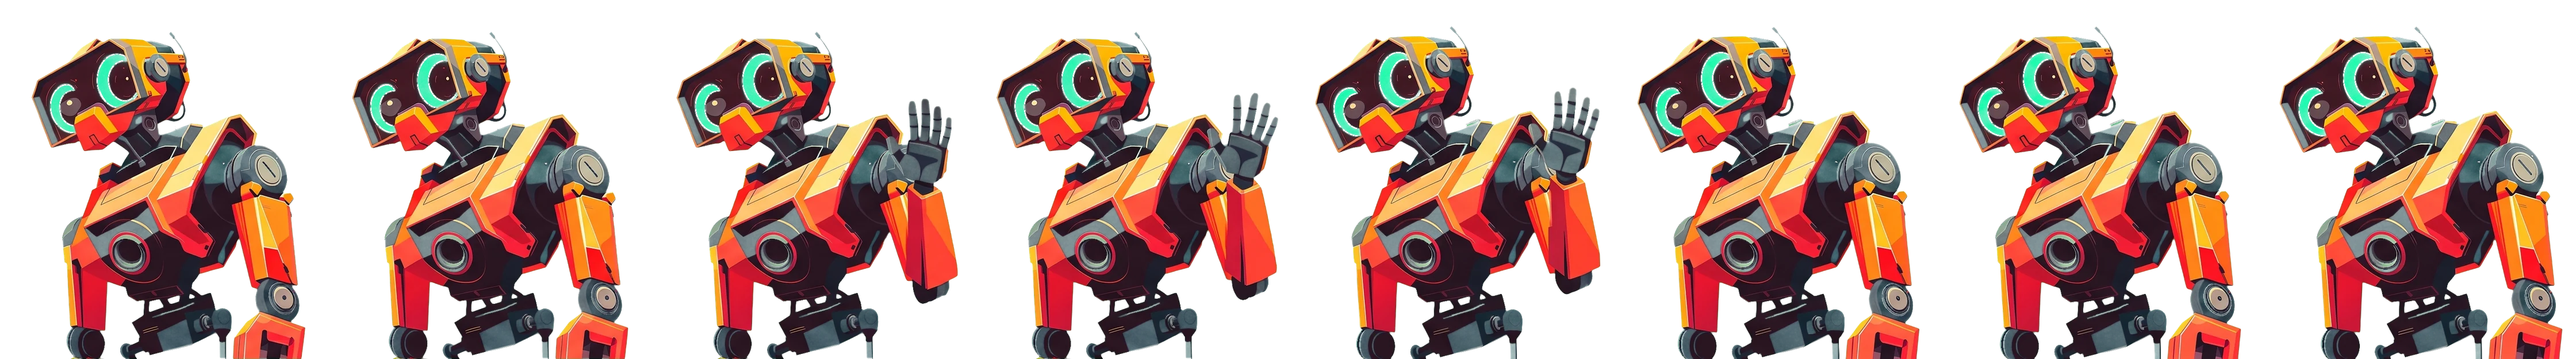
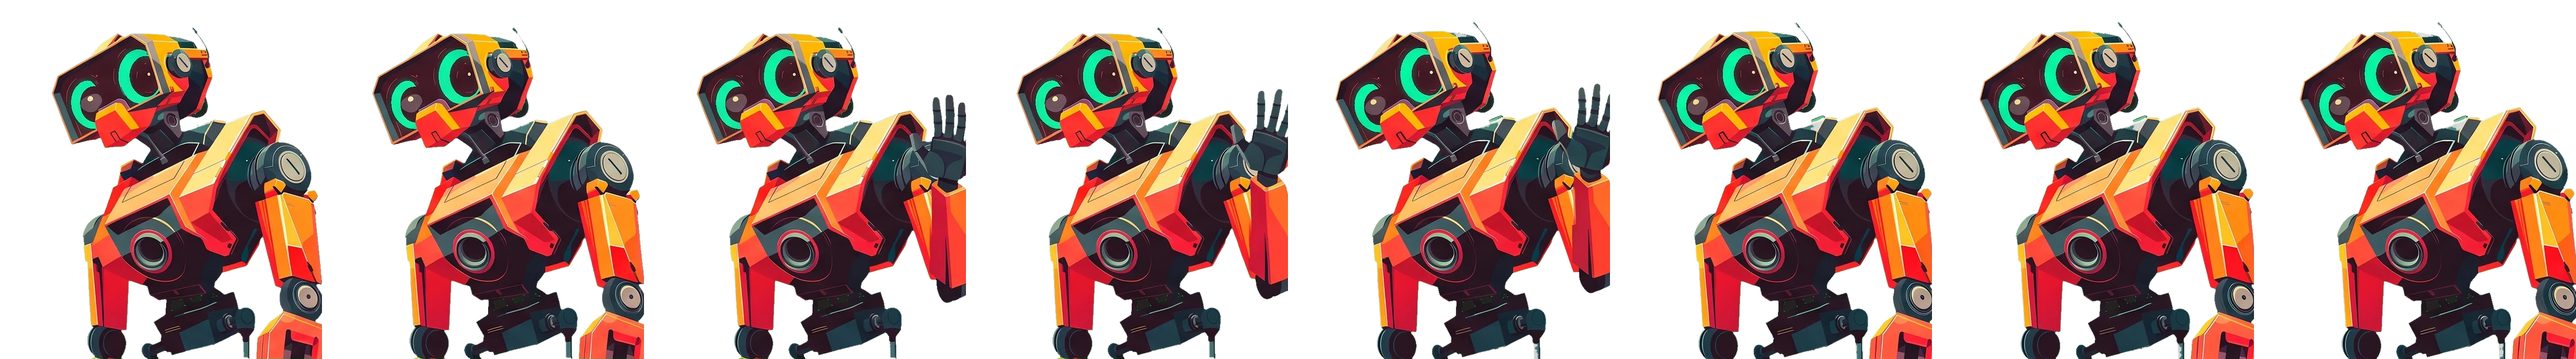
Neesmo: calmer robot, solid eyes, reading pose, chat in the new look
- Idle acts play once then back to standby; approval ask plays once per
  new item; 'look' act dropped (it changed the robot's size)
- Frames re-keyed: holes filled so eyes aren't see-through; every act
  scaled to the rest pose so the robot doesn't jump
- Reading: glasses and a book, still blinking, while you type
- Chat screen restyled (glass bubbles, pill buttons, robot stays visible)
- Lighter 3D on the NEESMO lettering; no Standby bubble; Approvals count
  on one line; cards cream / orange / mint in turn

Claude-Session: https://claude.ai/code/session_01G7HLYmTavxk1mYQhKz4R35

diff --git a/vega/index.html b/vega/index.html
@@ -231,7 +231,7 @@
   body.chat #log p.you { align-self: flex-end; max-width: 82%; padding: 10px 14px; border-radius: 14px 14px 4px 14px;
     background: rgba(var(--rgb),.12); border: 1px solid var(--dim); color: var(--c); white-space: pre-wrap; }
   body.chat #log p.vega { color: #d9ffe9; color: color-mix(in srgb, var(--c) 35%, #fff); }
-  @keyframes msg { from { opacity: 0; translate: 0 10px; filter: blur(3px); } }
+  @keyframes msg { from { opacity: 0; filter: blur(3px); } }
   @keyframes fadein { from { opacity: 0; } }
   #log p code { background: rgba(var(--rgb),.12); padding: 1px 5px; border-radius: 4px; font-size: .92em; }
   #log p pre { margin: 8px 0; padding: 10px 12px; background: rgba(0,0,0,.45); border: 1px solid rgba(var(--rgb),.2); border-radius: 8px; overflow-x: auto; white-space: pre; }
@@ -335,7 +335,7 @@
   html.robot { --c: #2B1D14; --bg: #D6CBC0; --dim: rgba(43,29,20,.6); background-color: #D6CBC0; }
   html.robot, html.robot body { background: radial-gradient(120% 90% at 50% 40%, #E6DDD3, #D6CBC0 55%, #BFB2A5) fixed; }
   html.robot #wordmark { font: 900 italic min(24vw, 360px)/.8 "Archivo", sans-serif; letter-spacing: -.05em; color: #EF8746; background: none; filter: none; animation: none; transform: translate(-50%, -50%);
-    text-shadow: 2px 2px 0 #D06C35, 4px 4px 0 #BC5E2B, 6px 6px 0 #A85021, 8px 8px 0 #944217, 30px 40px 50px rgba(60,35,20,.35); }
+    text-shadow: 1px 1px 0 #D9773F, 2px 2px 0 #C86A36, 3px 3px 0 #B85F30, 16px 22px 40px rgba(60,35,20,.22); }
   html.robot :is(.card, #f > *, .pop, .tabs, #log p, dialog#ag, dialog#ap) { background: rgba(255,250,243,.45); -webkit-backdrop-filter: blur(18px) saturate(1.5); backdrop-filter: blur(18px) saturate(1.5);
     border: 1px solid rgba(255,255,255,.7); box-shadow: inset 0 1px 0 rgba(255,255,255,.85), inset 0 -1px 0 rgba(43,29,20,.08), 0 18px 36px -12px rgba(43,29,20,.4); color: var(--c); text-shadow: none; }
   html.robot :is(.pop, .tabs, dialog#ag, dialog#ap) { background: rgba(255,250,243,.82); }
@@ -351,7 +351,7 @@
   #bot { position: fixed; right: 0; bottom: calc(196px + env(safe-area-inset-bottom)); width: min(86vw, 420px); aspect-ratio: 560 / 625; overflow: hidden; pointer-events: none; z-index: 1; filter: drop-shadow(-14px 20px 18px rgba(60,35,20,.28)); }
   #bot img { width: 800%; height: 100%; display: block; }
   @media (max-width: 900px) { #bot { -webkit-mask-image: linear-gradient(#000 80%, transparent); mask-image: linear-gradient(#000 80%, transparent); } }
-  body.chat #bot { opacity: .15; } html.robot #status.quiet { visibility: hidden; }
+  @media (max-width: 900px) { body.chat #bot { opacity: .2; } } html.robot #status.quiet { visibility: hidden; }
   @keyframes spr { to { transform: translateX(-100%); } }
   html.robot #wordmark { top: calc(84px + env(safe-area-inset-top)); translate: none; transform: translateX(-50%); font-size: min(21vw, 320px); z-index: 0; }
   html.robot #status { top: auto; left: 16px; right: auto; bottom: calc(196px + min(86vw, 420px) * .9 + env(safe-area-inset-bottom)); z-index: 2; padding: 10px 16px; border-radius: 18px 18px 18px 6px; max-width: 60vw;
@@ -365,13 +365,22 @@
   html.robot .icons { gap: 2px; padding: 5px; border-radius: 999px; }
   html.robot .icons .ic { width: auto; height: 38px; padding: 0 14px; border: 0; border-radius: 999px; background: none; box-shadow: none; -webkit-backdrop-filter: none; backdrop-filter: none; font: 600 13.5px var(--sans); letter-spacing: 0; text-transform: none; color: var(--c); }
   html.robot .icons .ic[aria-expanded="true"] { background: #2B1D14; color: #FFF8EF; }
-  html.robot .icons .badge:not([hidden]) { position: static; display: inline; background: none; color: inherit; padding: 0; font: inherit; } html.robot .icons .badge::before { content: " · "; } html.robot .icons .ic { white-space: nowrap; }
+  html.robot .icons .badge:not([hidden]) { position: static; display: inline; background: none; color: inherit; padding: 0; font: inherit; } html.robot .icons .badge::before { content: " · "; } html.robot .icons .ic { white-space: nowrap; display: inline-flex; align-items: center; }
   html.robot :is(.corner, #status, .st, .chip, .kpi span, .card span, #chathead h2) { font-family: var(--sans); }
   html.robot .card .st { font-size: 11px; font-weight: 700; letter-spacing: .08em; text-transform: uppercase; color: rgba(43,29,20,.7); }
   html.robot .card .st::before { content: none; } html.robot .card b { font: 900 italic 20px/1.15 "Archivo", var(--sans); letter-spacing: -.01em; }
-  html.robot .card small { color: rgba(43,29,20,.75); } html.robot .card.s-working { background: rgba(239,135,70,.5); } html.robot .card.s-idle { background: rgba(194,226,198,.5); } html.robot .card.s-offline { opacity: .7; }
+  html.robot .card small { color: rgba(43,29,20,.75); } html.robot #agents-l .card:nth-child(3n+2), html.robot #agents-r .card:nth-child(3n) { background: rgba(239,135,70,.55); } html.robot #agents-l .card:nth-child(3n), html.robot #agents-r .card:nth-child(3n+1) { background: rgba(194,226,198,.6); } html.robot .card.s-offline { opacity: .7; }
   html.robot dialog { background: rgba(255,250,243,.72); -webkit-backdrop-filter: blur(24px) saturate(1.4); backdrop-filter: blur(24px) saturate(1.4); border: 1px solid rgba(255,255,255,.7); border-radius: 24px; box-shadow: 0 40px 80px -20px rgba(43,29,20,.45); color: var(--c); }
   html.robot dialog::backdrop { background: rgba(214,203,192,.25); -webkit-backdrop-filter: blur(16px); backdrop-filter: blur(16px); }
+
+  /* chat screen, new look */
+  html.robot #chathead button { border-radius: 999px; padding: 0 16px; height: 40px; font: 600 13.5px var(--sans); letter-spacing: 0; background: rgba(255,250,243,.5); -webkit-backdrop-filter: blur(18px); backdrop-filter: blur(18px); border: 1px solid rgba(255,255,255,.7); color: var(--c); }
+  html.robot #chathead h2 { font: 900 italic 22px "Archivo", var(--sans); letter-spacing: -.01em; text-transform: none; color: #EF8746; }
+  html.robot body.chat #wordmark { opacity: .12; }
+  html.robot body.chat #log p.vega { align-self: flex-start; max-width: 82%; padding: 12px 16px; border-radius: 18px 18px 18px 6px; color: var(--c); background: rgba(255,250,243,.55); -webkit-backdrop-filter: blur(18px); backdrop-filter: blur(18px); border: 1px solid rgba(255,255,255,.7); }
+  html.robot body.chat #log p.you { background: #2B1D14; color: #FFF8EF; border: 0; border-radius: 18px 18px 6px 18px; }
+  html.robot #log p pre { background: rgba(43,29,20,.08); }
+  @media (min-width: 901px) { html.robot body.chat #chathead { left: 4vw; translate: none; } html.robot body.chat #log { left: 4vw; translate: none; width: min(54vw, 760px); } html.robot body.chat .corner.tl { opacity: 0; pointer-events: none; } }
   @media (min-width: 901px) {
     #bot { right: -1vw; bottom: 0; width: min(46vw, 78vh, 760px); }
     html.robot #wordmark { top: 92px; font-size: min(19.5vw, 320px); }
@@ -512,7 +521,7 @@
   <div class="rfoot"><button type="button" id="r-new">New thread</button><span class="rlink" id="r-link"></span><button type="button" id="r-stop" hidden>Stop</button></div>
 </div></dialog>
 <div id="welcome" hidden aria-hidden="true"></div>
-<div id="status" role="status" aria-live="polite">Standby</div>
+<div id="status" class="quiet" role="status" aria-live="polite">Standby</div>
 <div id="chathead"><button type="button" id="chat-back" aria-label="Back to the home screen">← Back</button><h2>CHAT</h2><button type="button" id="chat-new">New chat</button></div>
 <div id="log" aria-live="polite"></div>
 <div id="atts" aria-label="Attached files"></div>
@@ -1359,27 +1368,30 @@ if (window.Motion) {
 }
 
 // ── robot companion: 8 drawn frames per mood, swapped like stop motion. App state first, then random idle acts ──
-const LOOP = { look: 3, torch: 3, wave: 2.2, listening: 2.4, reading: 3, working: 2, approve: 2.4, done: 2 };
+const LOOP = { torch: 3, wave: 2.4, listening: 2.4, working: 2, approve: 2.4, done: 2 };
 const botImg = $('#bot img');
-let botPending = 0, botName = '', botAct = '', botActEnd = 0, botNext = Date.now() + 15000, botBlink = Date.now() + 3000, botWas = '';
-function botShow(name, frame) {
+let botPending = 0, botAsked = 0, botName = '', botAct = '', botActEnd = 0, botNext = Date.now() + 15000, botBlink = Date.now() + 3000, botWas = '';
+function botShow(name, frame, once) {
   if (botName !== name) { botName = name; botImg.src = `/static/robot/${name}.webp`; document.body.dataset.bot = name; }
-  botImg.style.animation = frame == null ? `spr ${LOOP[name]}s steps(8) infinite` : 'none';
+  botImg.style.animation = frame == null ? `spr ${LOOP[name]}s steps(8) ${once ? 1 : 'infinite'}` : 'none';
   botImg.style.transform = frame == null ? '' : `translateX(-${frame * 12.5}%)`;
 }
+const botBlinkTick = now => { if (now > botBlink + 150) botBlink = now + 3000 + Math.random() * 6000; };   // blink now and then
 setInterval(() => {
   const now = Date.now(), q = $('#q');
   const want = mode === 'listening' ? 'listening' : mode !== 'idle' ? 'working' : document.activeElement === q && q.value ? 'reading' : '';
-  if (botWas === 'working' && !want) { botAct = 'done'; botActEnd = now + 2800; }   // a reply just finished
+  if (want === 'reading') return botShow('reading', now > botBlink ? 5 : 0, true), botBlinkTick(now);   // glasses on, book in hand, still blinks
+  if (botWas === 'working' && !want) { botAct = 'done'; botActEnd = now + LOOP.done * 1000; }   // a reply just finished
+  if (botPending > botAsked && !want && now > botActEnd) { botAct = 'approve'; botActEnd = now + LOOP.approve * 1000; }   // something new waits for you: ask once
+  botAsked = botPending;
   botWas = want;
   if (want) return botShow(want);
-  if (now < botActEnd) return botShow(botAct);
+  if (now < botActEnd) return botShow(botAct, null, true);
   if (now > botNext && !reduce) {   // idle = still, looking at you, blinking; every 25-40 s one small act
-    botAct = botPending ? 'approve' : ['look', 'wave', 'torch'][Math.random() * 3 | 0];   // something waiting for you: it asks instead botActEnd = now + LOOP[botAct] * 1000; botNext = botActEnd + (botPending ? 12000 : 25000 + Math.random() * 15000);
-    return botShow(botAct);
+    botAct = ['wave', 'torch'][Math.random() * 2 | 0]; botActEnd = now + LOOP[botAct] * 1000; botNext = botActEnd + 25000 + Math.random() * 15000;
+    return botShow(botAct, null, true);
   }
-  if (now > botBlink + 150) botBlink = now + 3000 + Math.random() * 6000;   // blink now and then
-  botShow('still', now > botBlink ? 5 : 0);
+  botBlinkTick(now); botShow('still', now > botBlink ? 5 : 0);
 }, 100);
 
 var reduce = matchMedia('(prefers-reduced-motion: reduce)').matches || PREFS.calm;
